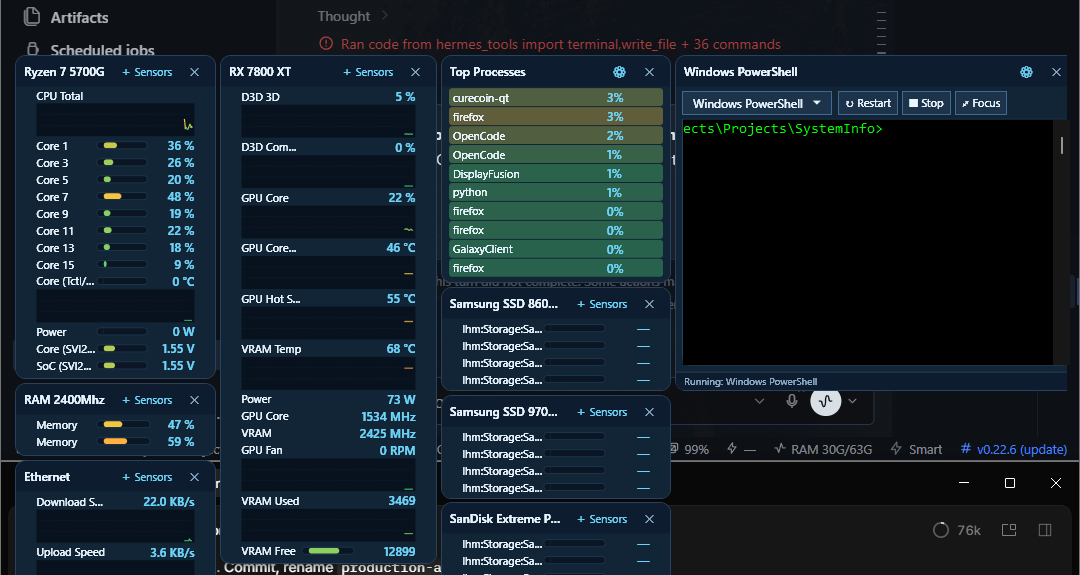
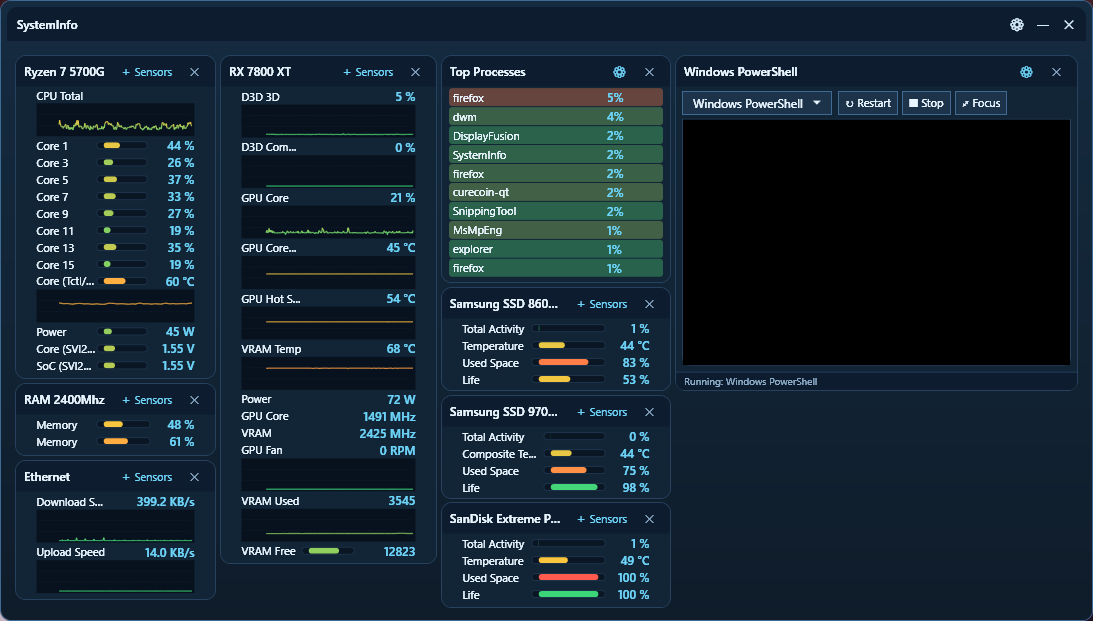
README: replace screenshot with user-captured two-state screenshots
docs/screenshot.png is now the unhidden main window; docs/screenshot-hidden.png shows Hide Background; README shows unhidden first.

diff --git a/README.md b/README.md
@@ -8,9 +8,13 @@ Data comes **only from [LibreHardwareMonitor](https://github.com/LibreHardwareMo
 
 ## Screenshot
 
-<picture>
-  <img alt="SystemInfo showing CPU, GPU, memory, storage, network, processes and a PowerShell box" src="docs/screenshot.png" width="880">
-</picture>
+**Main window** (chrome visible, always-on-top):
+
+<img alt="SystemInfo main window: CPU, GPU, memory, storage, network, processes and an embedded PowerShell box" src="docs/screenshot.png" width="880">
+
+**With `Hide Background` enabled** (window chrome appears only on hover; boxes sit on the desktop):
+
+<img alt="SystemInfo with Hide Background: the same boxes floating over the desktop with no window chrome" src="docs/screenshot-hidden.png" width="880">
 
 ## Features
 
